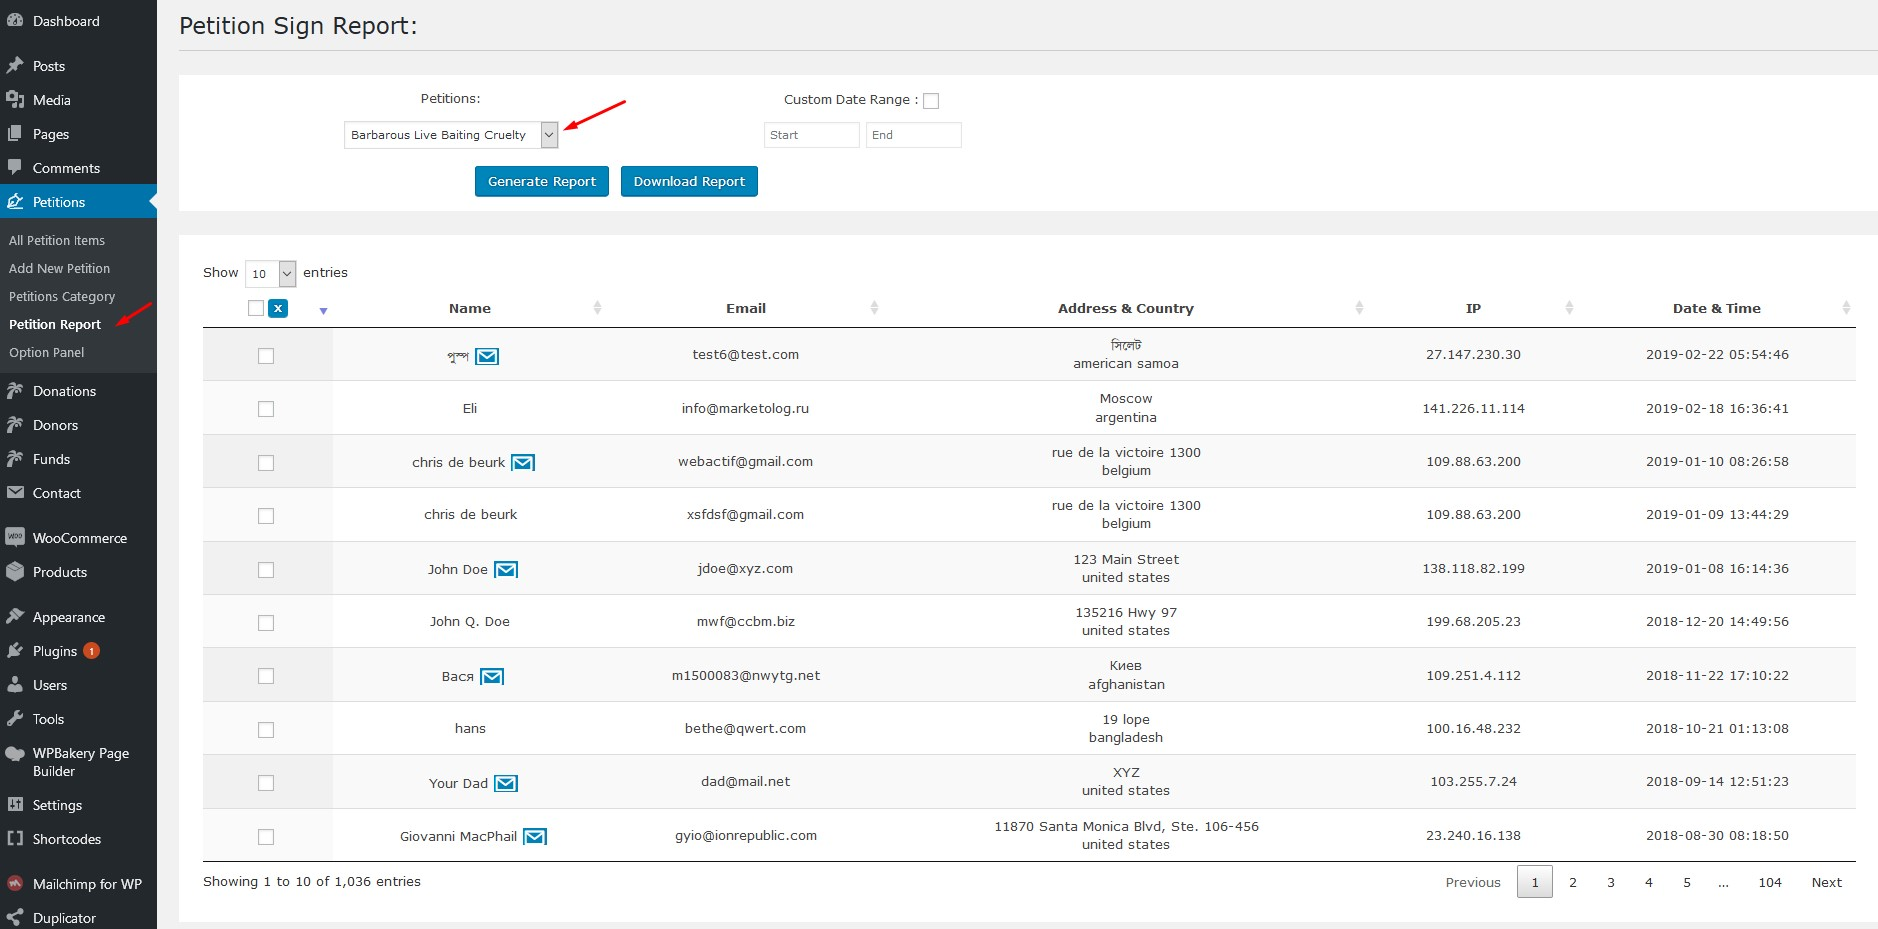
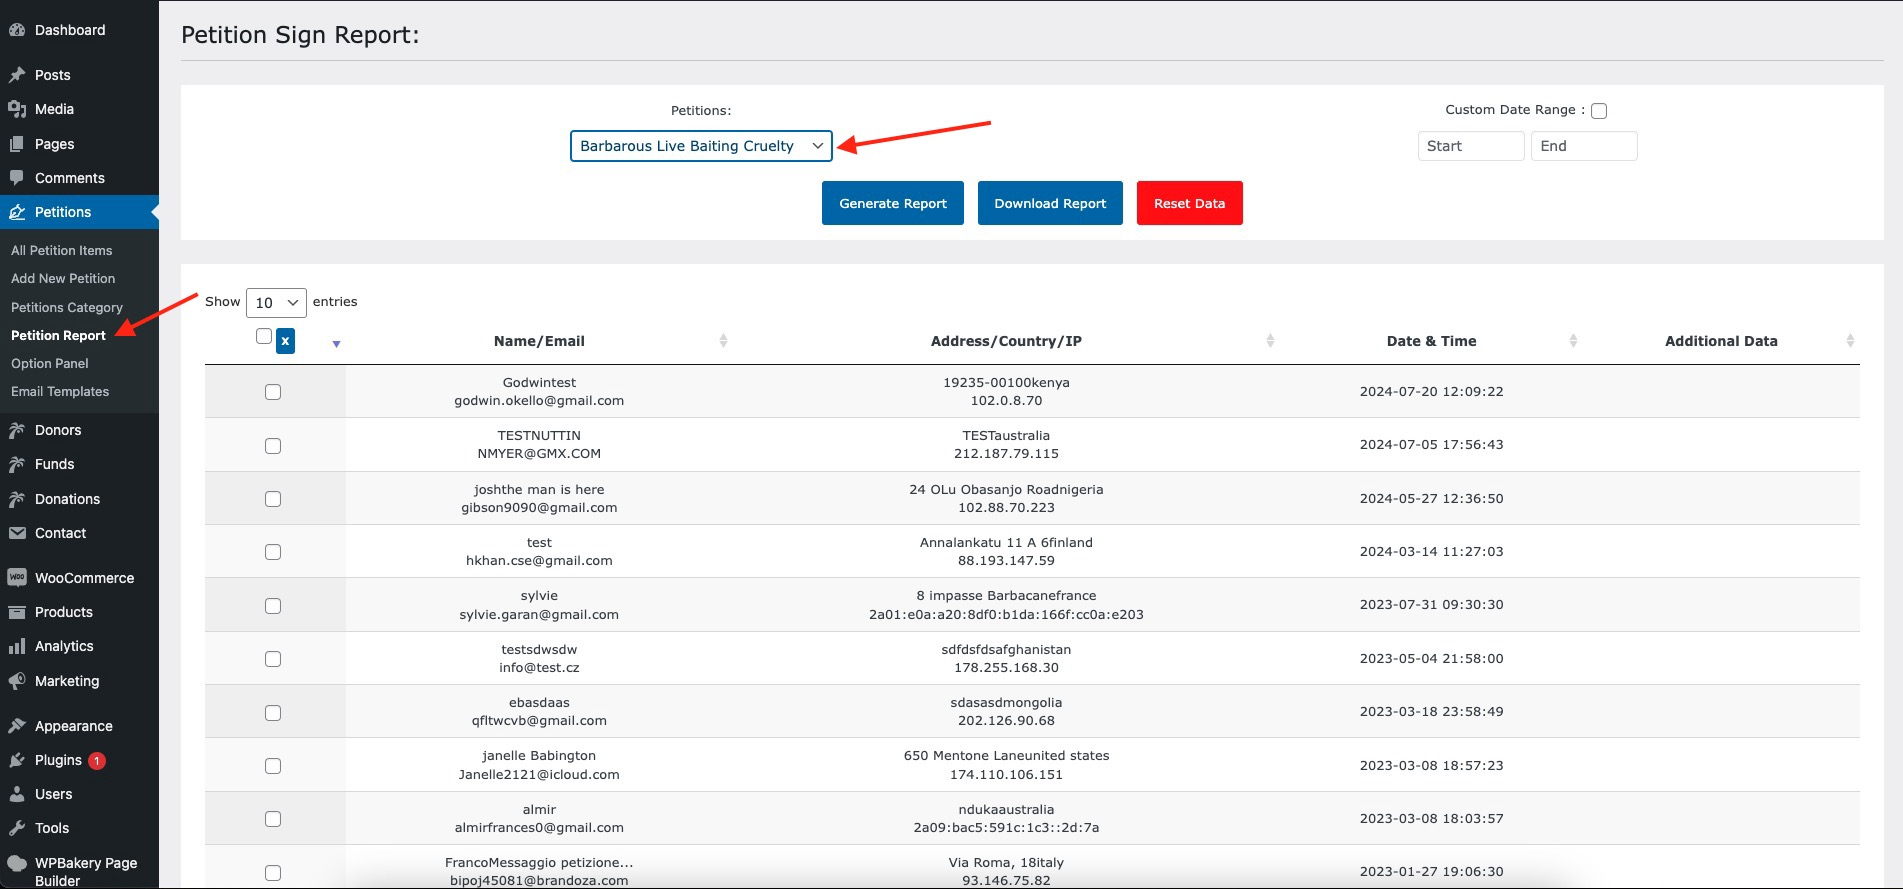
updated the petition manager plugin, remove extra files

diff --git a/appeal/petitions_manager/index.html b/appeal/petitions_manager/index.html
@@ -58,7 +58,10 @@
                     <a class="nav-link scrollto d-none" href="#force_disable_download_files">Force Disable Download Files</a>
                   </nav>
 
-                  <a class="nav-link scrollto" href="#download_report">Petition Report</a>
+                  <a class="nav-link scrollto" href="#download_report" title="Petition report">Petition report</a>
+                  <nav class="doc-sub-menu nav flex-column">
+                    <a class="nav-link scrollto" href="#remove_petition_data" title="Remove petition data">Remove petition data</a>
+                  </nav>
 
                   <a class="nav-link scrollto" href="#plugin_shortcodes_section">Plugin Shortcodes</a>
 
@@ -506,6 +509,55 @@
                           <strong>CSV</strong>
                           format.
                         </p>
+                      </div>
+                    </div>
+
+                  </div>
+
+                </section>
+
+
+                <section id="remove_petition_data" class="doc-section">
+
+                  <div class="section-block">
+                    <div class="row">
+                      <div class="col-md-12 col-12">
+                        <h3 class="block-title">Remove petition data</h3>
+                        <p>
+                          <strong class="steps">Step 01</strong>
+                          Navigate to
+                          <strong>Petitions >> Petition Report</strong>
+                          Section. Next, select the petition from
+                          <em>Petitions</em>
+                          drop down list.
+                        </p>
+                        <div class="doc-img-box">
+                          <a href="img/download_report_01.jpg" class="venobox">
+                            <img class="img-fluid" src="img/download_report_01.jpg" alt="doc_img"/>
+                          </a>
+                        </div>
+
+                        <p>
+                          <strong class="steps">Step 02</strong>
+                          Now, click on the 
+                          <strong>Reset Data</strong>
+                           button. 
+                        </p>
+                        <div class="doc-img-box">
+                          <a href="img/remove_petition_data.jpg" class="venobox">
+                            <img class="img-fluid" src="img/remove_petition_data.jpg" alt="doc_img"/>
+                          </a>
+                        </div>
+
+                        <p>
+                          <strong class="steps">Step 03</strong>
+                          You will see a confirmation window. Click the <em>Ok</em> button to reset the data.
+                        </p>
+                        <div class="doc-img-box">
+                          <a href="img/confirm_reset_petition.jpg" class="venobox">
+                            <img class="img-fluid" src="img/confirm_reset_petition.jpg" alt="doc_img"/>
+                          </a>
+                        </div>
                       </div>
                     </div>
 
